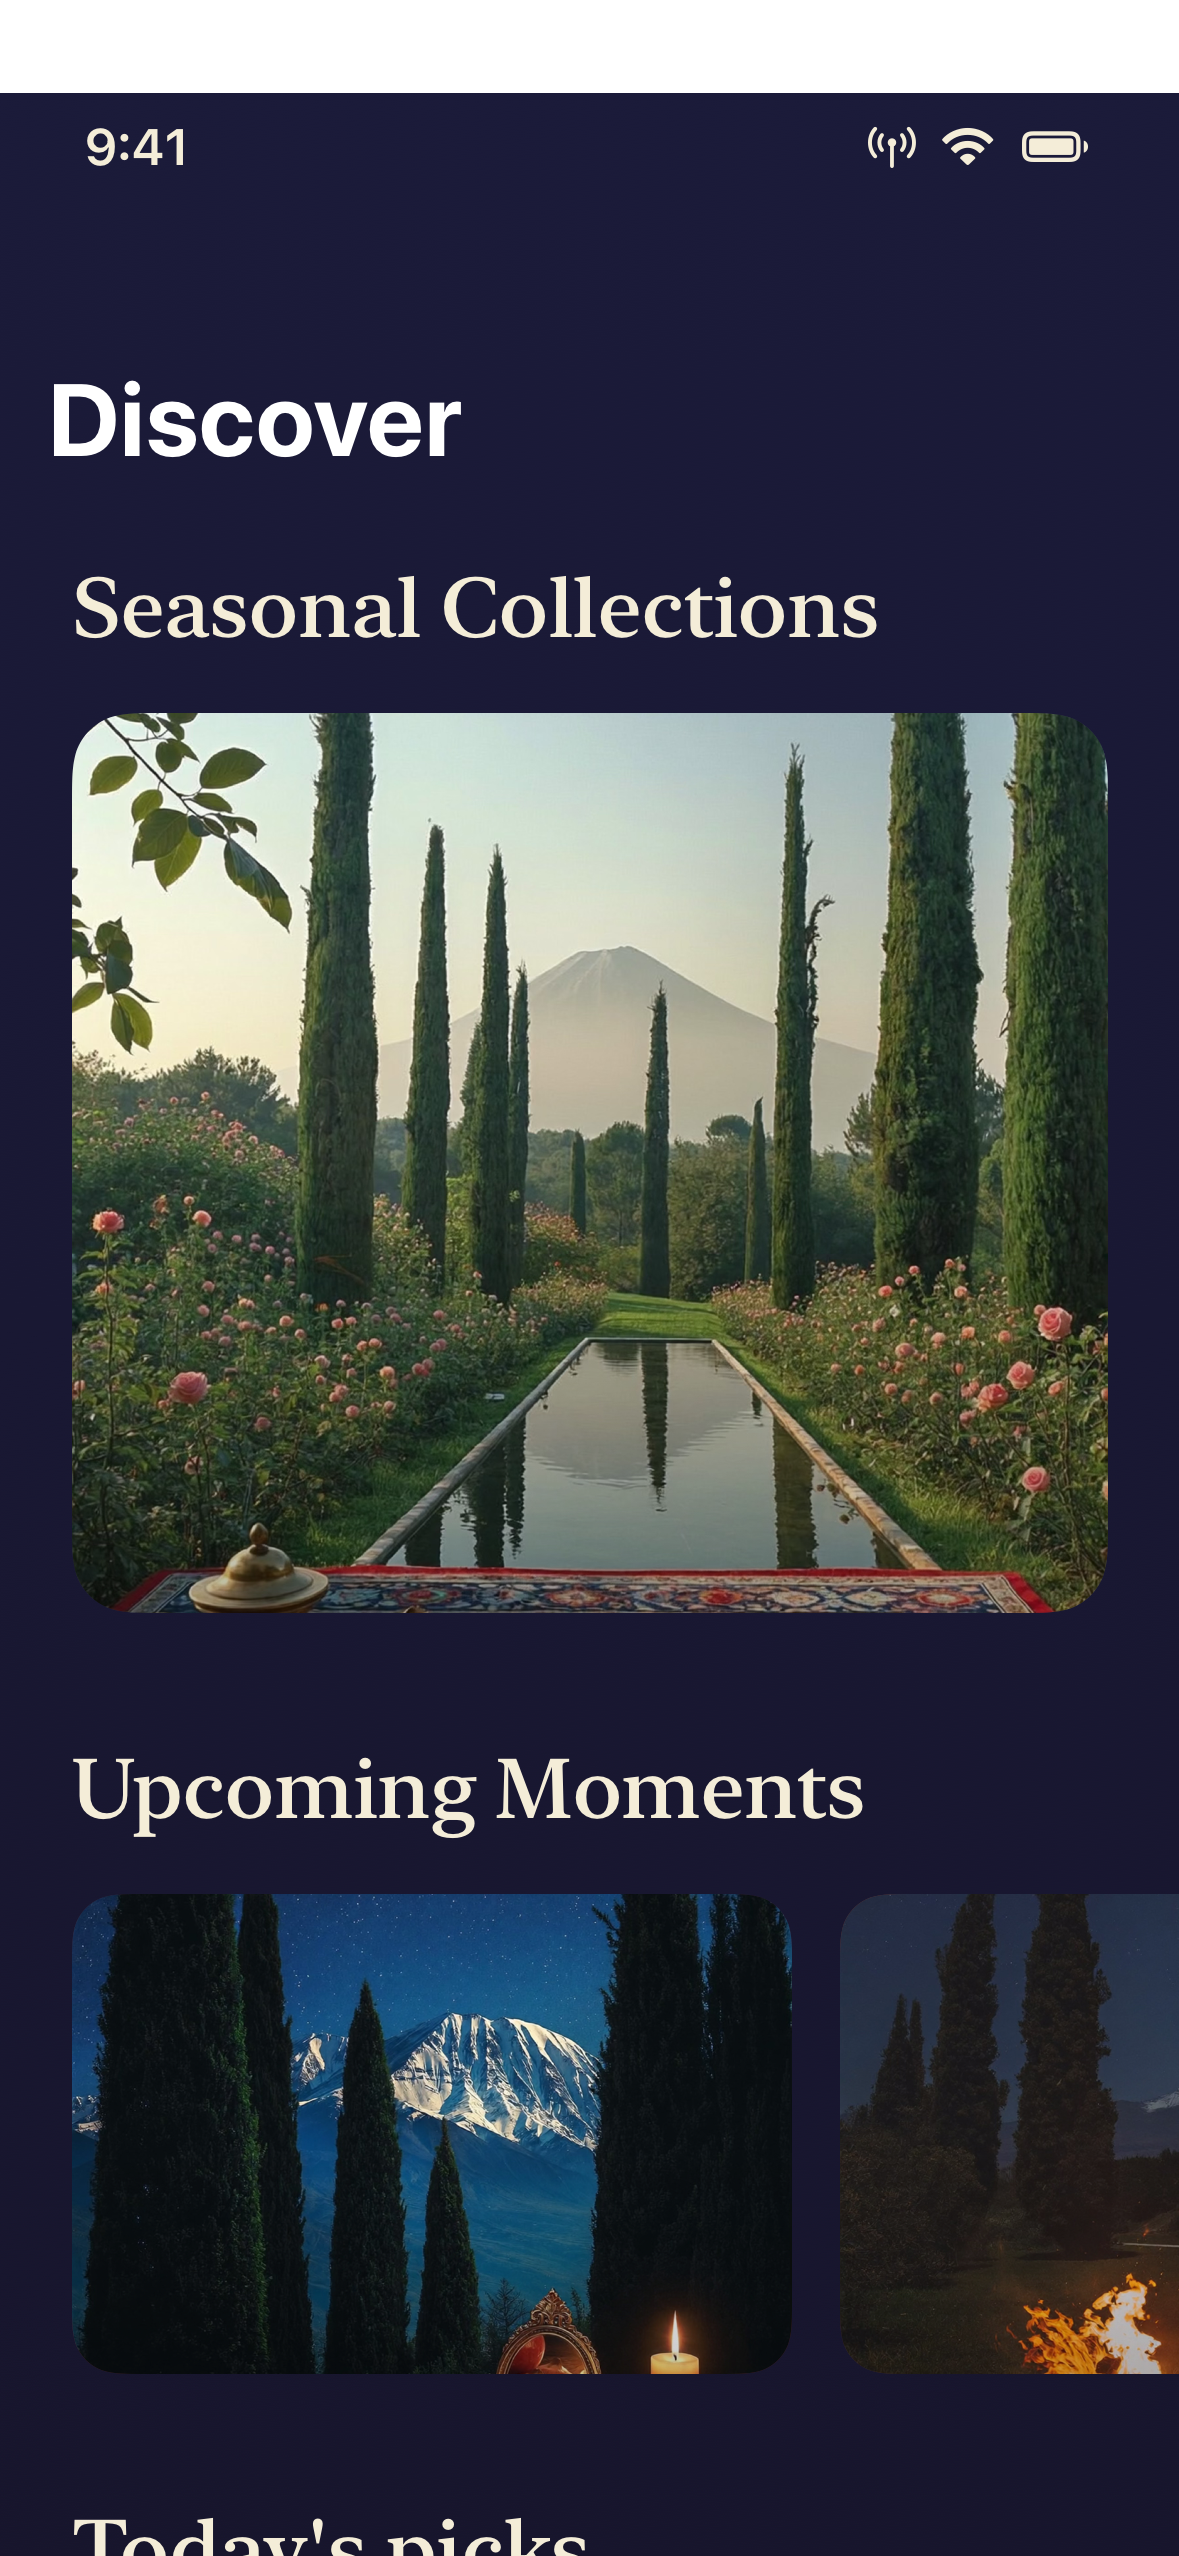
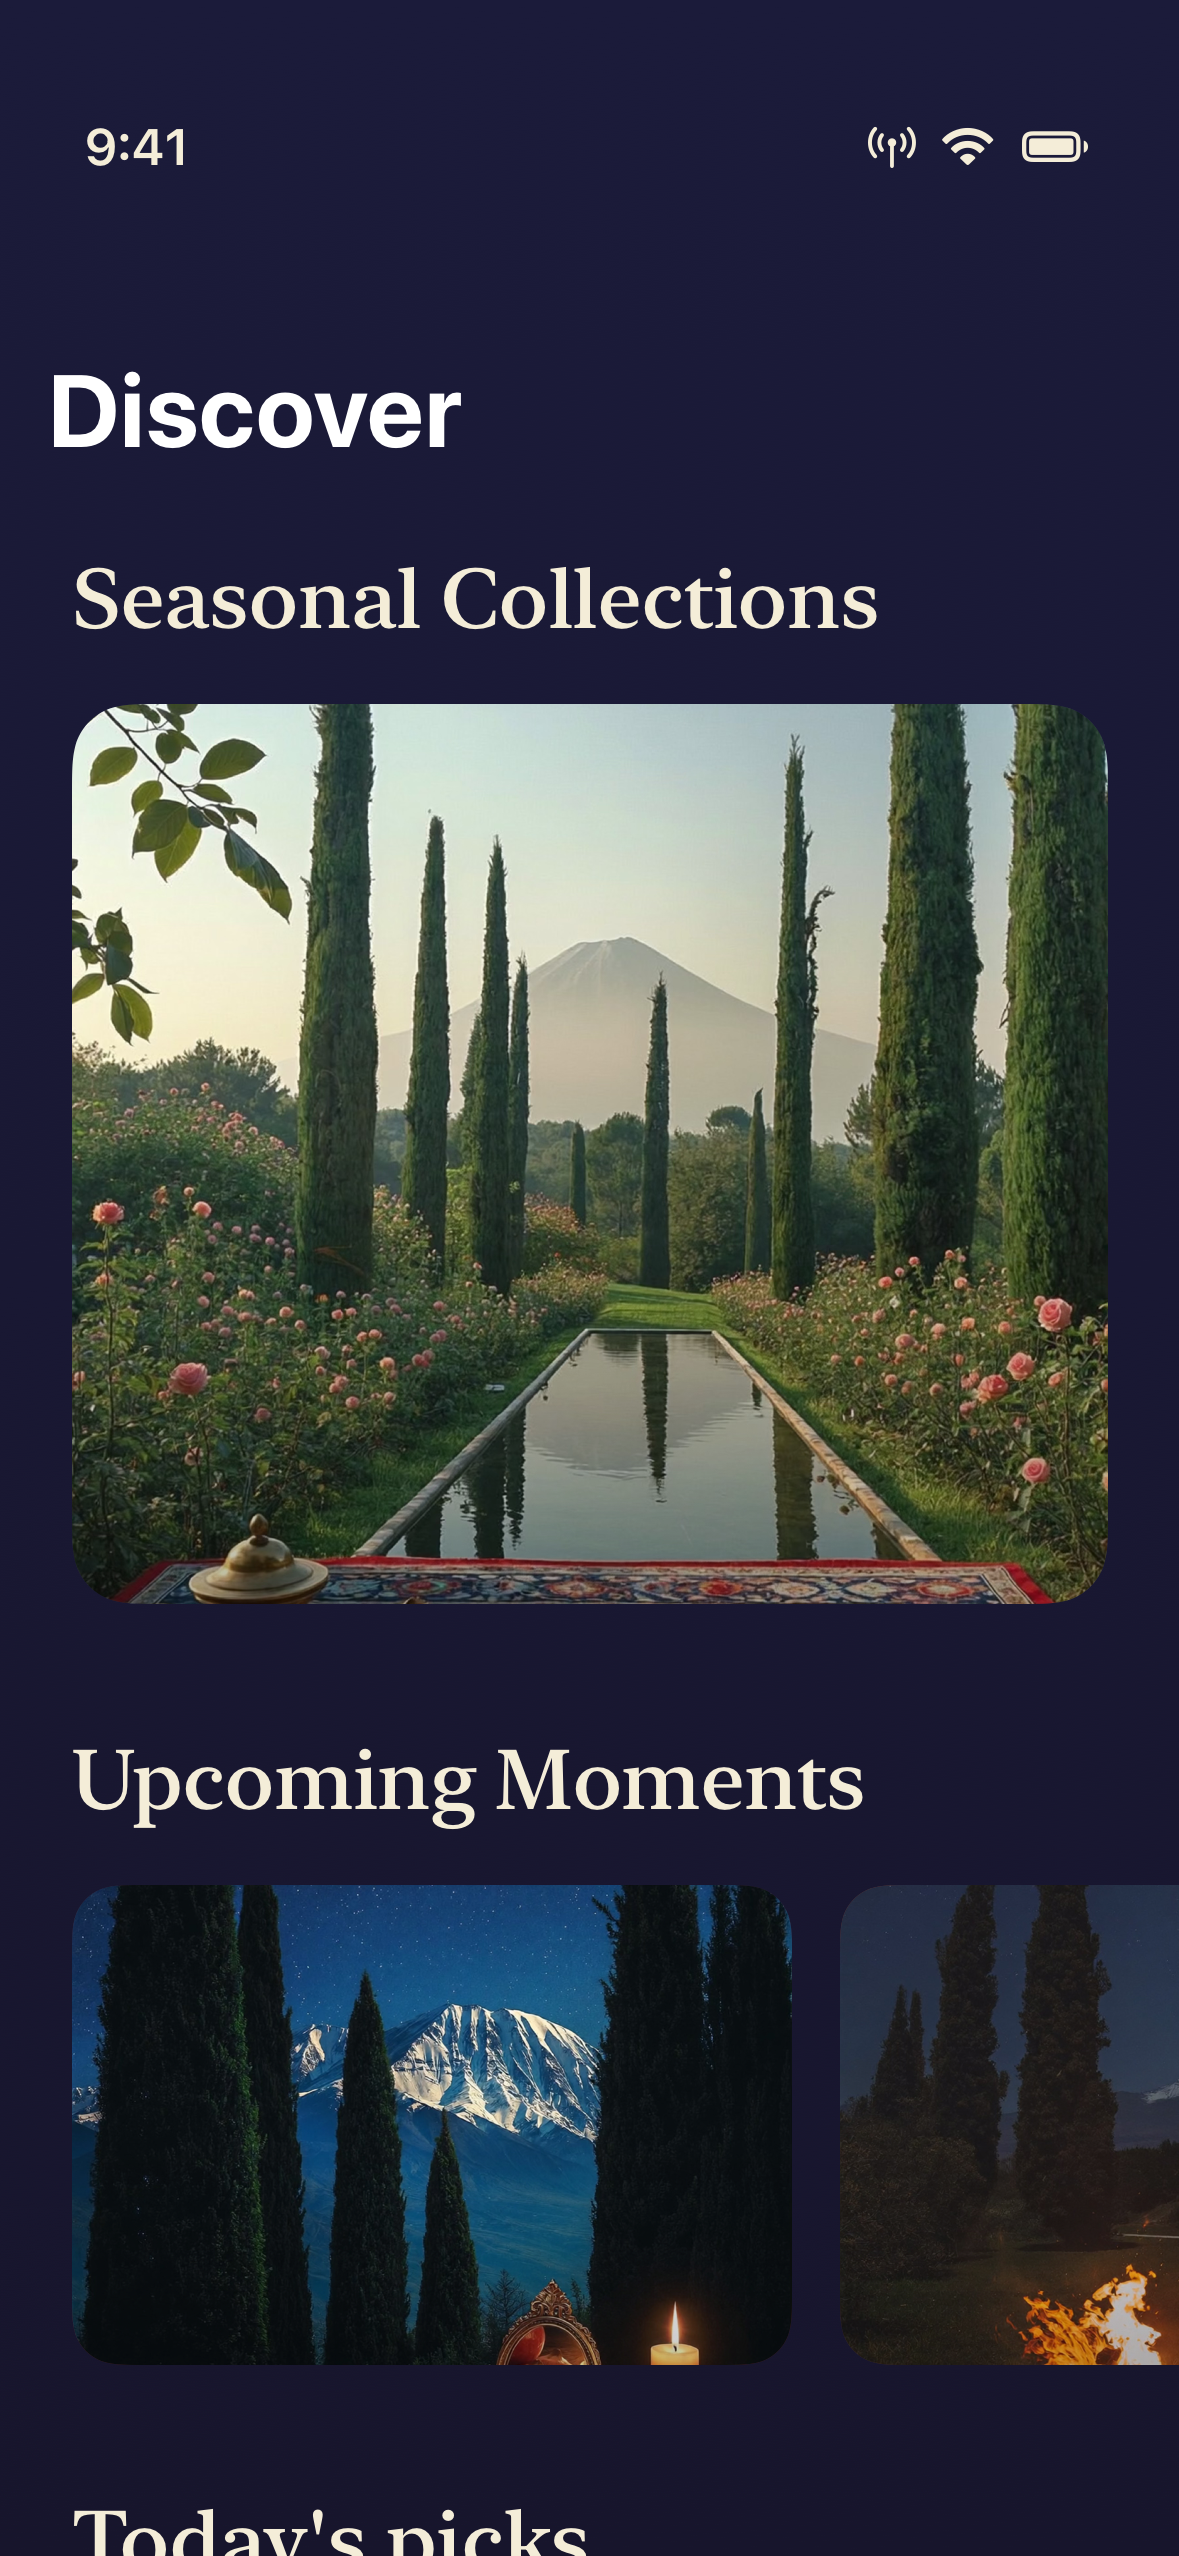
Screenshots: recapture without the transparent top band
The twelve app screenshots each carried a fully transparent 31pt band across the
top. It read as chrome behind the device frame's bezel, which is why it shipped,
but the captures are meant to be whole phone screens and a whole phone screen has
no transparent pixels.

Fixed in hamdam-ios (ScreenshotOrchestrator), re-exported and copied in here.
Verified by decoding each PNG: zero transparent rows, alpha uniformly 255, still
1179x2556, and every screen's title clear of the synthetic status bar in both
locales. Removing the band also recovers the 31pt of real content that used to be
clipped off the bottom of each capture.

34-next-steps.md item 4 closes with the mechanism written down, including a
correction: the band was a uniform 31pt on all twelve, not 62pt on 05-journey as
that document claimed while calling it the strongest clue available.

04-roots also differs beyond the band: the export renders the current app branch,
which had just dropped the unattributed Wikipedia imagery from the Roots cards.

diff --git a/docs/website-redesign/34-next-steps.md b/docs/website-redesign/34-next-steps.md
@@ -7,44 +7,66 @@ live on hamdam.com.au. Ealia signed off on the English copy and the structure
 the same day, and ruled "Farsi is ok for now", so the Farsi gaps below are
 deferred rather than owed.
 
-Three items remain. None blocks the site; all three were found while doing the
-work above.
+Three items remained. None blocked the site; all three were found while doing the
+work above. **Item 4 was fixed and deployed later the same day** — its section is
+kept in full below, because the write-up it replaces contained a wrong
+measurement that sent the investigation the wrong way, and that is worth
+recording. **Items 5 and 6 are still open**, and 6 is Ealia's to do.
 
 ---
 
-## 4. The transparent band at the top of every app screenshot
+## 4. The transparent band at the top of every app screenshot — FIXED 2026-07-25
 
-**Where:** `src/assets/website-redesign/screenshots/{EN,FA}/*.png`, produced by
-the orchestrator in the `hamdam-ios` repo.
+**Where it was:** `src/assets/website-redesign/screenshots/{EN,FA}/*.png`,
+produced by the orchestrator in the `hamdam-ios` repo.
 
-**What:** each capture has a fully transparent band across the top: 31pt (93
-pixels at 3x) on five of the six screens, 62pt (186 pixels) on `05-journey`.
-Confirmed by decoding the PNGs and reading the alpha channel, not by eye. On the
-site it sits under the device frame's bezel against a dark backing, so it reads
-as chrome rather than a gap, which is why it shipped.
+**First, a correction to the note this section used to carry:** the band was a
+uniform 31pt (93 pixels at 3x) on **all twelve** captures. It was not 62pt on
+`05-journey`. That claim was wrong, and since it was described here as "the
+strongest clue available" it was actively misleading. Re-measured by decoding
+the alpha channel of every shipped PNG.
 
-**What is already known:**
+The advice to measure rather than reason was right, and measuring settled it in
+one export run. There were **two** causes stacked on each other, which is why
+each earlier single-cause attempt failed:
 
-- It is not the safe-area inset. The raw pass was changed to render with no
-  `additionalSafeAreaInsets` and the band did not move.
-- It is not fixed by `.ignoresSafeArea()` on the phone frame. That was tried,
-  built, re-exported and measured: identical 93-row band.
-- Rendering the canvas one status bar taller and cropping the difference back
-  off also did not clear it (the residual just changed size).
-- The band is a constant 31pt across five screens, which points at a layout
-  constant rather than per-screen content. `05-journey` being exactly double is
-  the strongest clue available.
+1. **The offscreen host window's inherited safe area.** That window is a real
+   window on a real screen, so it inherits that device's insets (top 62pt on the
+   402x874 screen). The host view inherited them too, and SwiftUI centres the
+   phone frame's fixed 852pt height inside the resulting 790pt safe region:
+   y = 62 + (790 - 852) / 2 = **31**. Exactly the band.
+2. **"Your Journey"'s own top padding**, which only became visible once the
+   first cause was fixed. It pads its content down by a status bar height so its
+   title clears the synthetic "9:41", and that moved its background down with
+   it, leaving 60pt unpainted.
 
-**Suggested next step:** stop guessing at the cause and measure it. Log
-`hostingController.view.safeAreaInsets` and the resolved frame of
-`ScreenshotPhoneFrame` inside a real export run, rather than reasoning about
-what UIKit should be doing to a hosting controller that is the root view of an
-offscreen window sized 1290x2796 on a 402x874 device screen.
+**Why the earlier attempts could not have worked**, now that the mechanism is
+known: `.ignoresSafeArea()` inside the phone frame acts below the level where
+the offset is applied, and clearing `additionalSafeAreaInsets` does nothing to
+an inset that is *inherited* rather than additional.
+
+**One trap worth recording.** Cancelling the safe area outright fixes the band
+but sends Reflections' and Roots' navigation titles straight through the
+synthetic status bar, because NavigationStack reads `additionalSafeAreaInsets`
+and nothing else. A SwiftUI `.safeAreaInset` and a `.safeAreaPadding` were both
+tried from outside it and both rendered the collision unchanged. The shipped fix
+therefore keeps a one-status-bar safe area and cancels the placement offset it
+causes, rather than zeroing the safe area.
+
+**Verified:** all twelve re-exported PNGs decode to zero transparent rows and a
+uniform alpha of 255, at the unchanged 1179x2556. Both switches default to off
+and are set only by the raw call site, so the composed App Store set (item 5)
+renders exactly as it did when it was shipped.
 
 **Files:** `Hamdam/Hamdam/DebugTools/ScreenshotOrchestrator/` in `hamdam-ios`
 (`ScreenshotOrchestrator.swift`, `ScreenshotViewFactory.swift`). Runbook:
-`docs/app-store/phase-3-screenshot-orchestrator.md`, which documents the fix
-that landed and this residual.
+`docs/app-store/phase-3-screenshot-orchestrator.md`.
+
+**Note for whoever re-exports next:** the export renders whatever is on the
+`hamdam-ios` working branch, so a re-export also picks up unrelated app changes.
+This set was captured off `feature/phase31-roots-global` at commit `a25457a8`,
+which had just removed the unattributed Wikipedia imagery from the Roots cards,
+so `04-roots` differs from the previous set for that reason as well.
 
 ---
 
